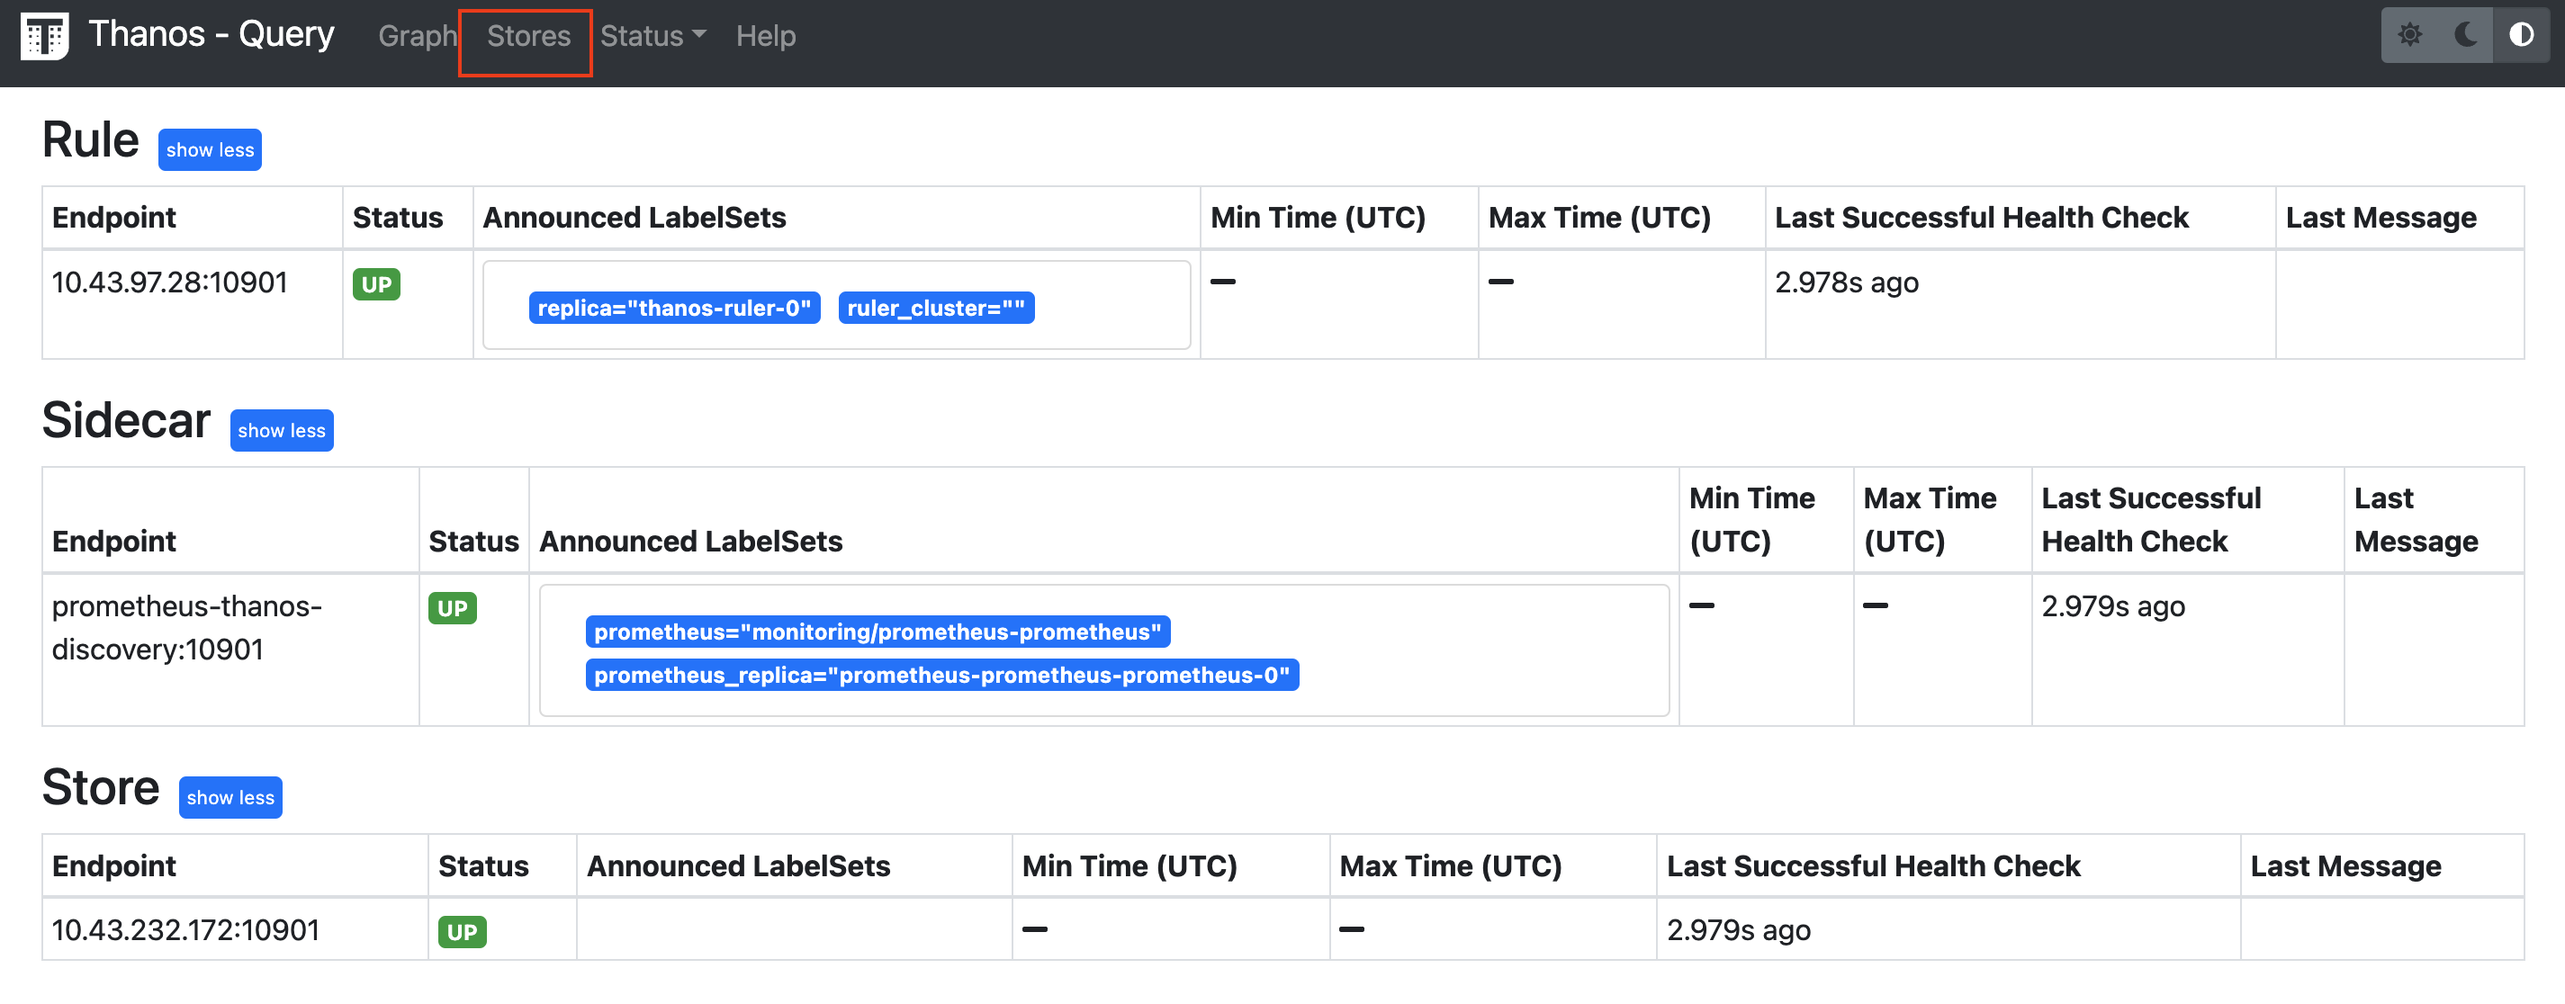
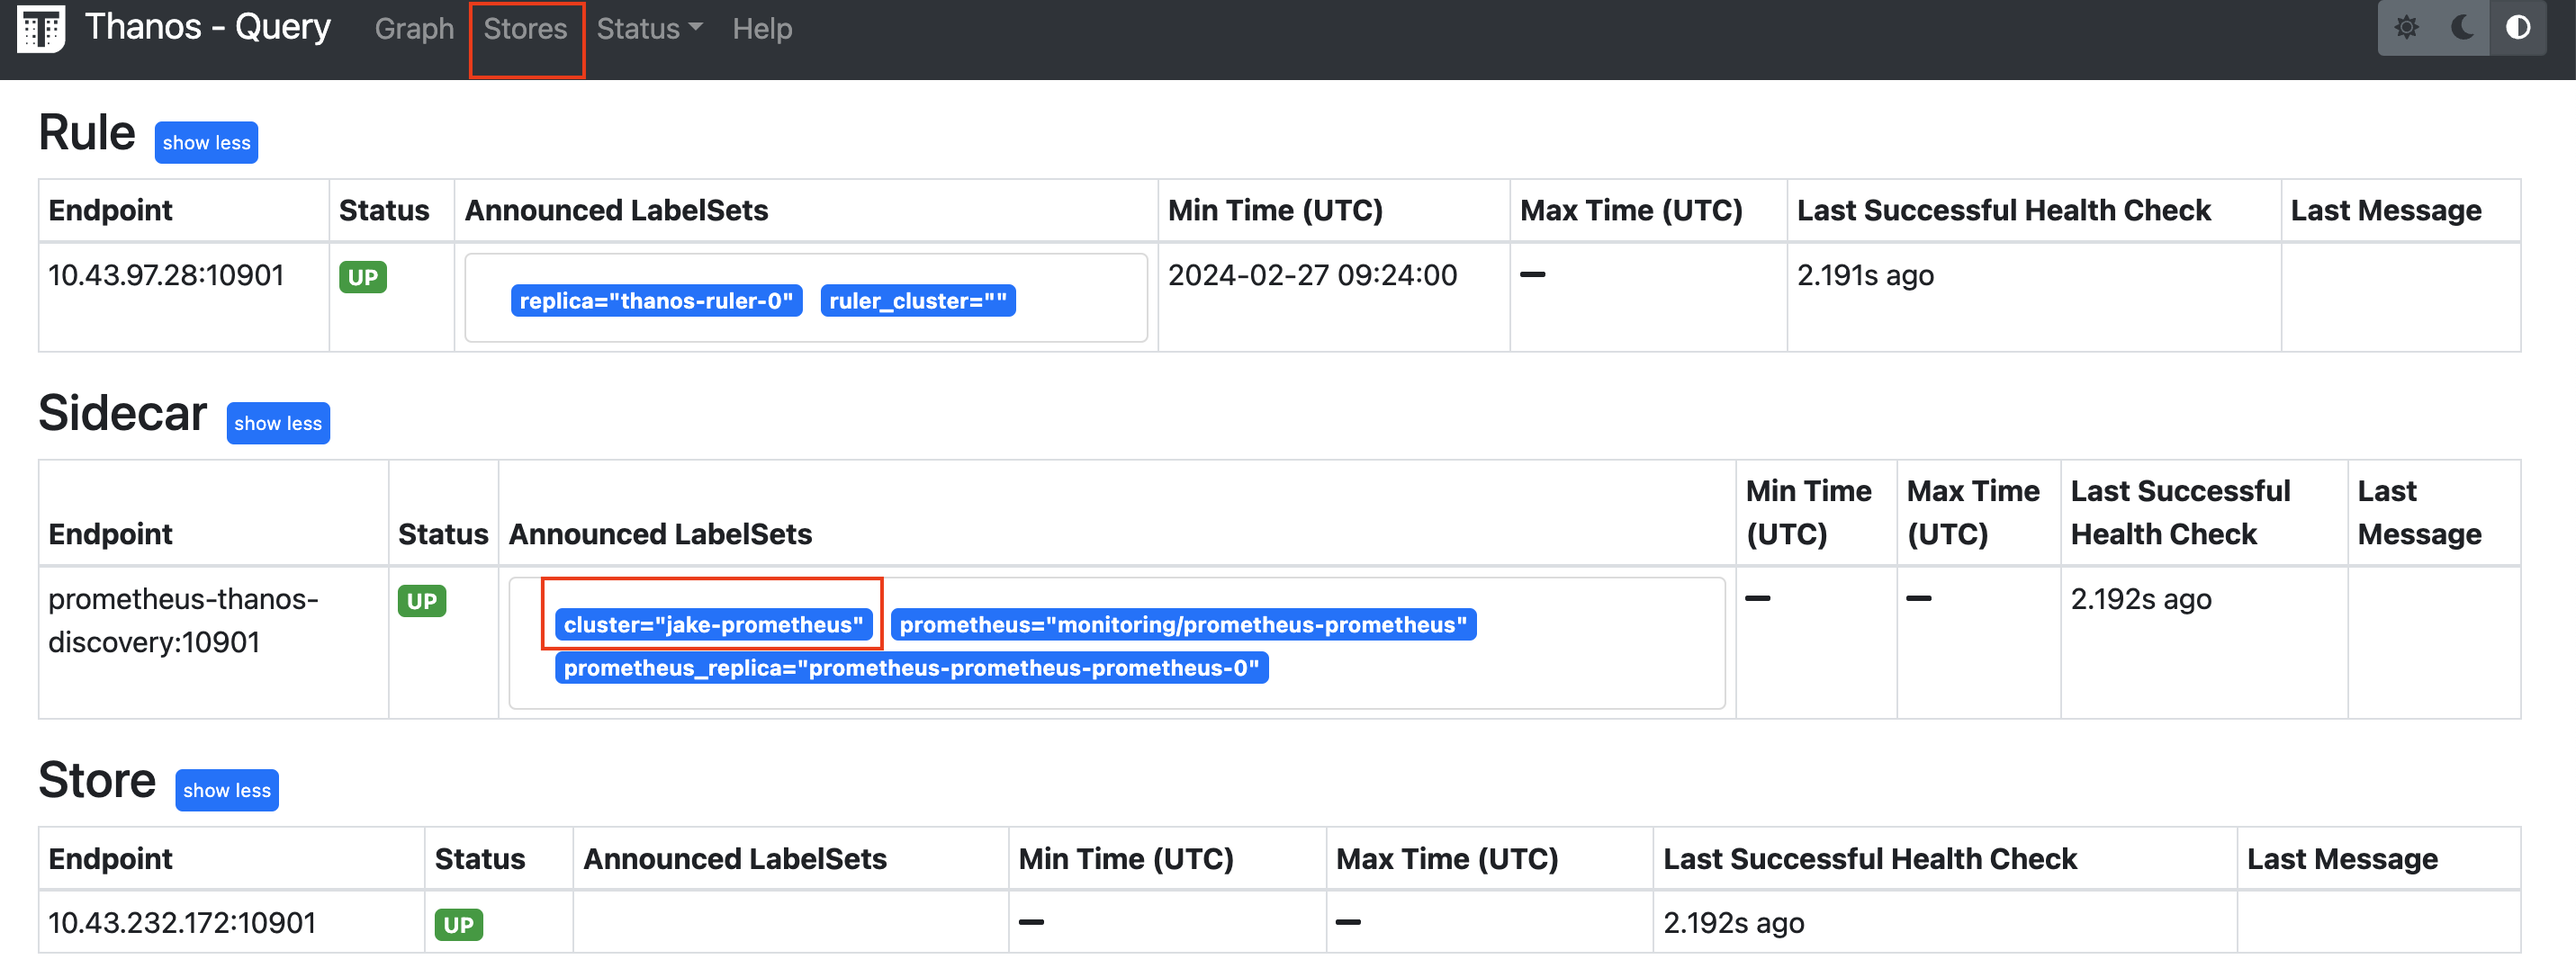
thanos install modified

diff --git a/prometheus.md b/prometheus.md
@@ -112,6 +112,13 @@ values.yaml 화일에서 아래 부분을 수정한다.
 
 <br/>
 
+Thanos 에서 사용을 하기 위해 설정할 수도 있다.  
+
+```bash
+3285     externalLabels: # {}
+3286       cluster: jake-prometheus
+```  
+
 설치를 진행한다.  
 
 ```bash
@@ -338,6 +345,7 @@ prometheus-community/kube-prometheus-stack        	56.8.2       	v0.71.2    	kub
 
 <br/>
 
+externalLabels 는 여러개의 prometheus를 구분하기 위한 구분자.  
 
 ```bash
 root@newedu-k3s:~/monitoring# cat prometheus-thanos-values.yaml
@@ -345,8 +353,8 @@ prometheus:
   thanosService:
     enabled: true
   prometheusSpec:
-    externalLables:
-      cluster: prometheus-1
+    externalLabels:
+      cluster: jake-prometheus
     thanos:
       objectStorageConfig:
         key: objstore.yml
@@ -654,10 +662,11 @@ thanos를 선택하고 up을 입력 한 후 Execute 버튼을 클릭합니다.
 
 <br/>
 
-stores 메뉴를 클릭 해본다.  
+stores 메뉴를 클릭 해본다.    
+
+`sidecar` 의 annotation에  `externalLabels` 로 설정한 `cluster: jake-prometheus` 가 나오는 것을 확인 할 수 있다.  
 
 <img src="./assets/thanos_stores.png" style="width: 80%; height: auto;"/>     
-
 
 <br/>
 
